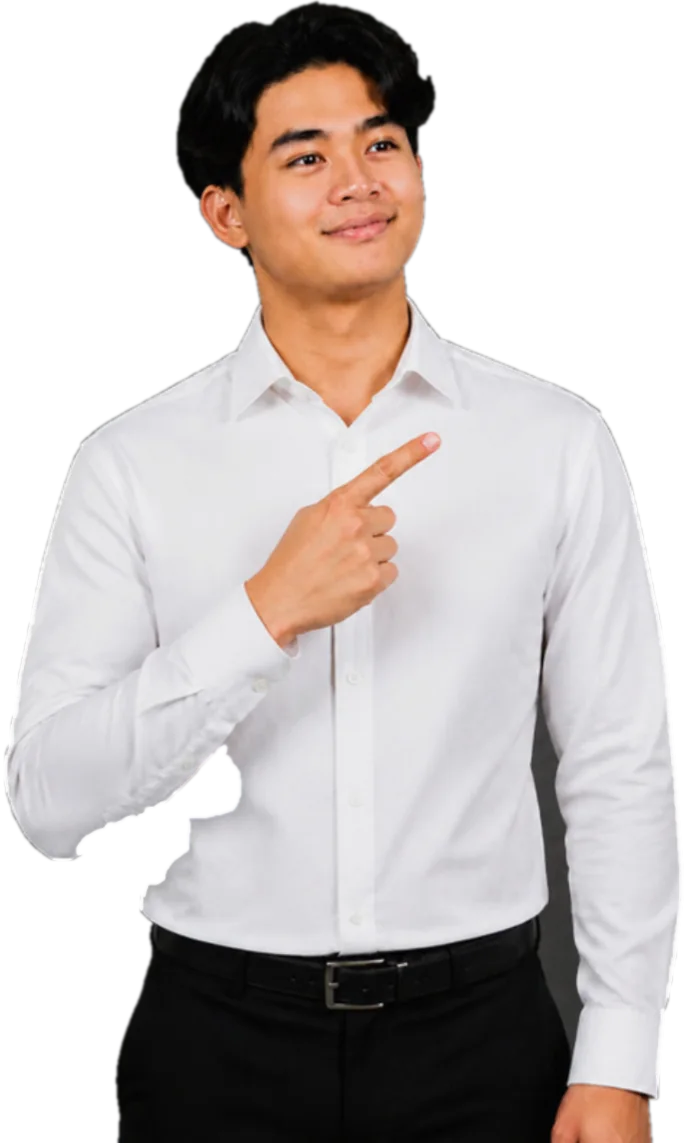
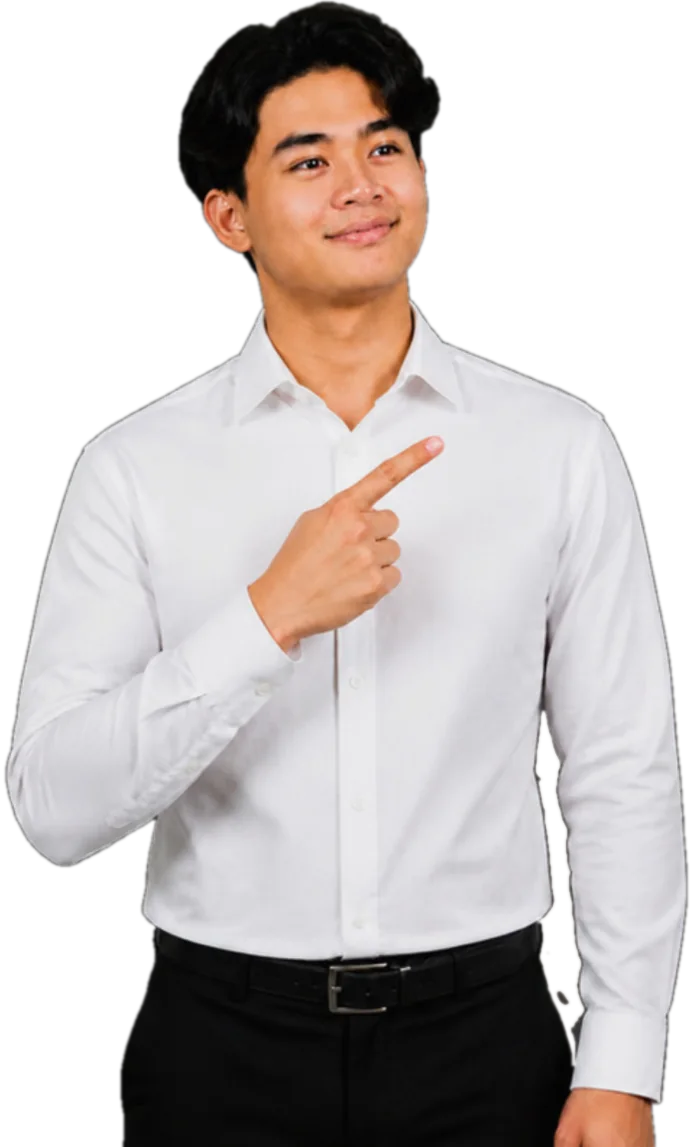
Services: fix cutouts, overlaps and header proportions
Re-cut the five Services people against a fitted backdrop so shirt
shadows are kept and arm gaps are cleared. Right-side mocks put their
sidebar under the person, status pills no longer wrap, calendar labels
fit. Header: less top space, woman scaled to match the man.

Claude-Session: https://claude.ai/code/session_01WxiEpBbYd9knDzcaHARf4X

diff --git a/index.html b/index.html
@@ -412,6 +412,8 @@ nav .nav-cta:hover,nav .nav-cta[aria-current="page"]{color:var(--navy);backgroun
 .has-person.r .mock-chip{right:auto!important;left:-12px!important;top:auto!important;bottom:-18px!important}
 @media (max-width:900px){.has-person.l .mock-chip,.has-person.r .mock-chip{left:auto!important;right:8px!important}}
 .has-person .cal .post em{font-size:0;width:12px;height:12px;padding:0}
+.flow .fs .tag2{white-space:nowrap;flex:none}
+@media (min-width:901px){.has-person.r .mock{grid-template-columns:minmax(0,1fr) 130px}.has-person .cal{gap:6px}.has-person .cal .post{padding:7px 5px;font-size:.72rem;overflow-wrap:normal}.has-person.r .mock .side{order:2;border-right:0;border-left:1px solid var(--line)}}
 .has-person.l .mock{margin-left:30%}
 @media (max-width:900px){.sv-person{top:0;bottom:auto;height:210px}.has-person.r .mock,.has-person.l .mock{margin:0}.has-person.r .sv-person{right:8px}.has-person.l .sv-person{left:8px}.mockwrap.has-person{padding-top:180px}}
 /* ---------- CALL PANEL ---------- */
@@ -485,7 +487,8 @@ nav .nav-cta:hover,nav .nav-cta[aria-current="page"]{color:var(--navy);backgroun
 .sv-grid{display:grid;grid-template-columns:minmax(0,1fr) minmax(0,1fr);gap:clamp(16px,3vw,40px);align-items:end}
 .crowd{position:relative;height:clamp(400px,42vw,620px);display:flex;align-items:flex-end;justify-content:center;gap:0;margin-bottom:calc(-1 * clamp(64px,9vw,120px))}
 .crowd img{height:100%;width:auto;max-width:56%;object-fit:contain;object-position:bottom}
-.crowd .c-l{margin-right:-6%}
+.crowd .c-l{margin-right:-6%;height:83%}
+#v-services>.forest.band:first-child{padding-top:clamp(28px,3.5vw,48px)}
 .crowd .badge{position:absolute;z-index:3}
 @media (max-width:860px){.crowd .badge{top:auto!important;bottom:18%;left:0}.sv-grid{grid-template-columns:1fr}.crowd{height:260px}}
 @media (min-width:1001px){
@@ -931,7 +934,7 @@ footer{padding-block:56px 40px;font-size:.95rem}
             <div class="cal">
               <span class="d">Mon</span><span class="d">Tue</span><span class="d">Wed</span><span class="d">Thu</span><span class="d">Fri</span>
               <div class="post">Reel<em class="st-live">Posted</em></div><div class="post empty"></div>
-              <div class="post">Carousel<em class="st-sched">Scheduled</em></div><div class="post">Story<em class="st-sched">Scheduled</em></div>
+              <div class="post">Post<em class="st-sched">Scheduled</em></div><div class="post">Story<em class="st-sched">Scheduled</em></div>
               <div class="post">Live Q&amp;A<em class="st-draft">Draft</em></div>
             </div>
             <div class="task" style="margin-top:6px"><span class="ck on"><svg viewBox="0 0 24 24"><path d="M5 12.5l4.5 4.5L19 7.5"/></svg></span><span class="t">New comments answered</span><span class="when">Daily</span></div>
